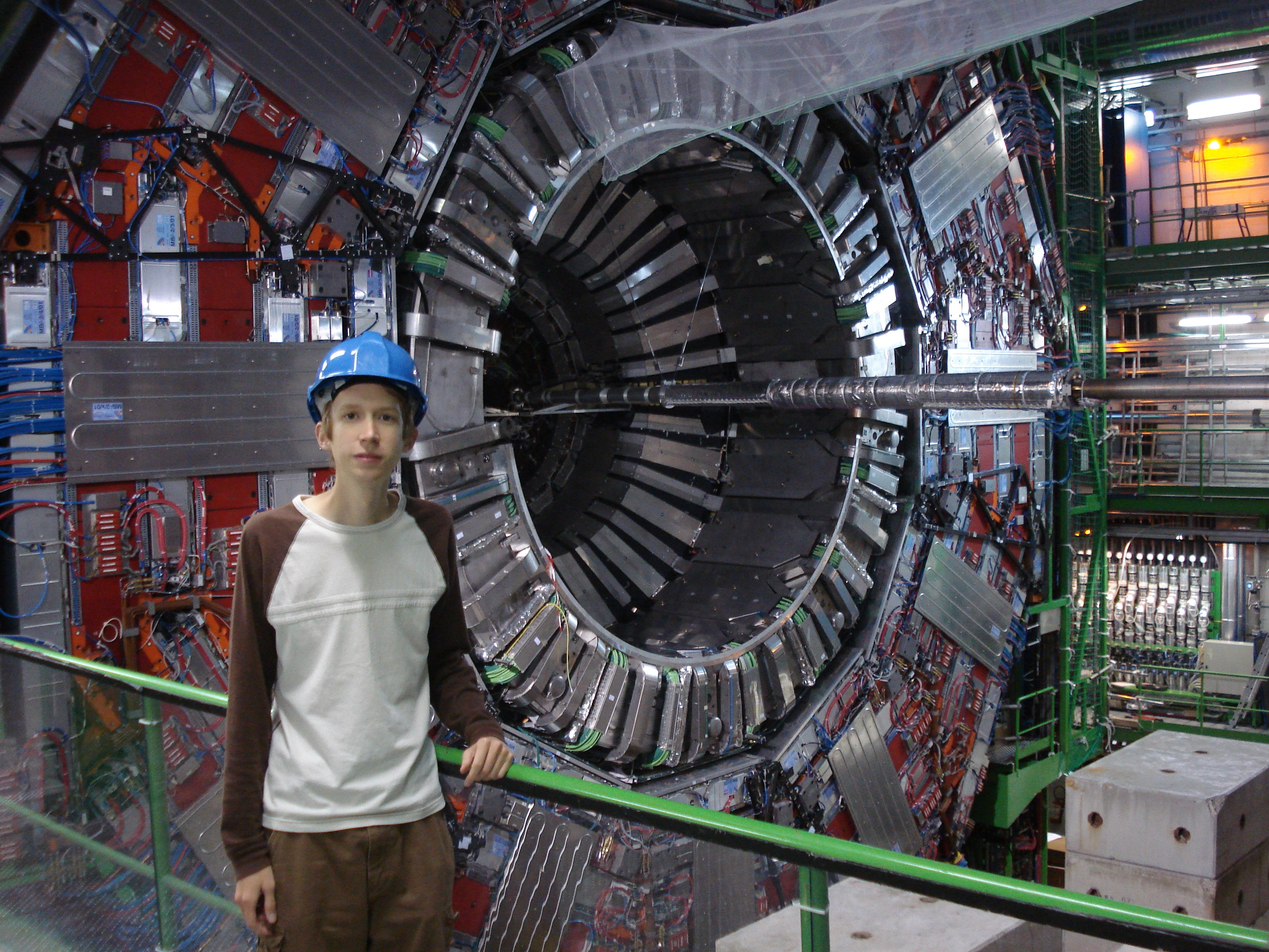
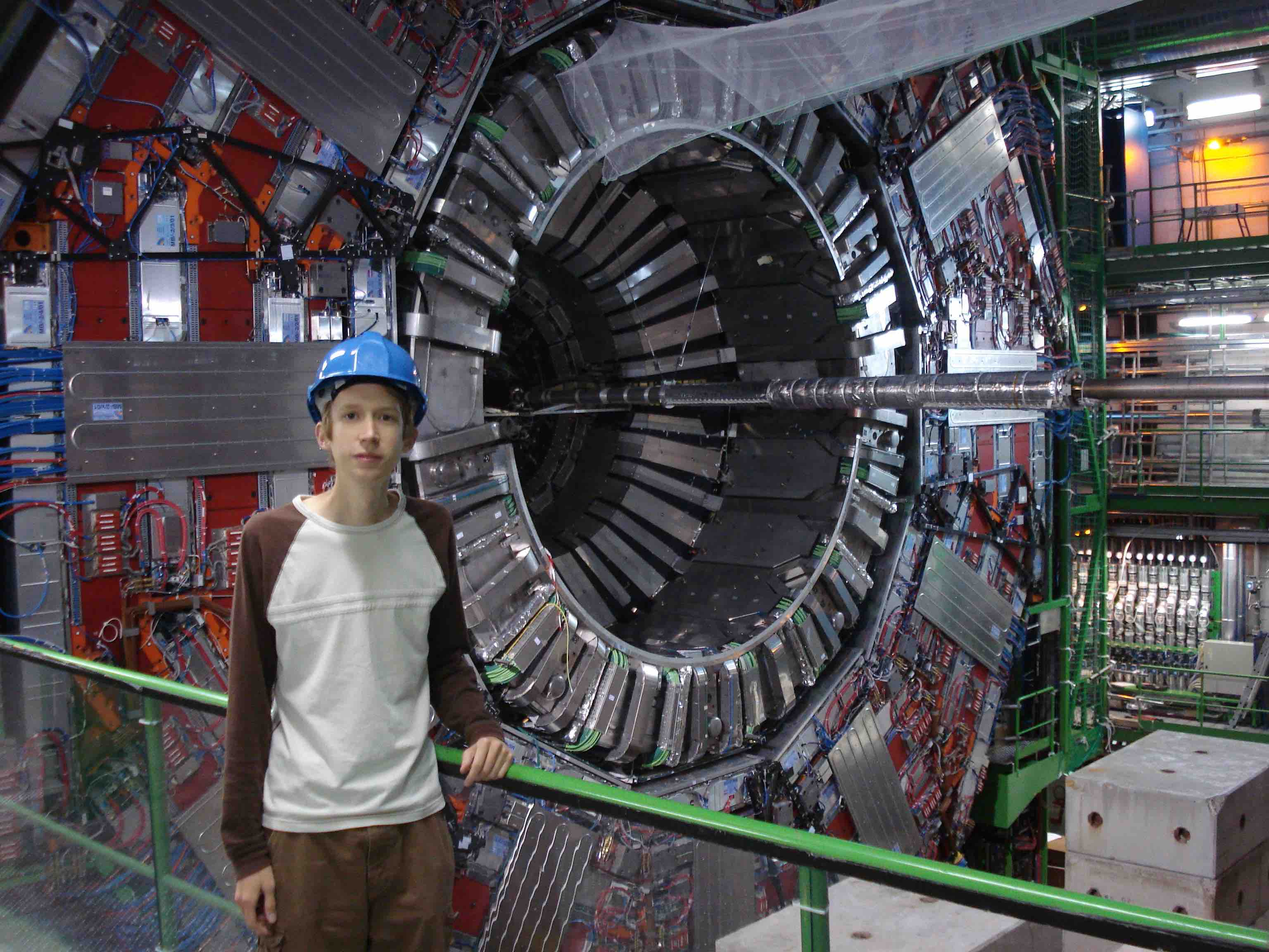
Added blog page. Compressed figures for faster load time.

Changed region(s): [[0.7188, 0.3125, 0.75, 0.3438]]

diff --git a/research.html b/research.html
@@ -10,7 +10,7 @@
 </head>
 <body>
 <div class="container">
-<p><a href="index.html">Home</a> / <strong>Research</strong> / <a href="cvitae.html">Curriculum Vitae</a> / <a href="publications.html">Publications</a></p>
+<p><a href="index.html">Home</a> / <strong>Research</strong> / <a href="cvitae.html">Curriculum Vitae</a> / <a href="publications.html">Publications</a> / <a href="blog.html">Blog</a></p>
 <hr />
 <h2 id="research">Research</h2>
 <p>This page has background information on the research areas in which I work. I’ve also given a brief description of my own work on each topic, and cross-referenced my papers at the bottom of each section.</p>
@@ -26,7 +26,7 @@
 <a href="http://arxiv.org/abs/1405.4285">Galaxy cluster lensing</a><br />
 <a href="http://arxiv.org/abs/1507.05552">Cosmological lensing</a></p>
 <h3 id="cosmic-voids">Cosmic Voids</h3>
-<p><img style="float:right" width=320 src="images/void_diagram.pdf" /></p>
+<p><img style="float:right" width=320 src="images/void_diagram.jpg" /></p>
 <p>Galaxy clusters are the most massive objects in the universe, with a typical one weighing 100 times more than our own galaxy, the Milky Way. The typical radii of such clusters are easily five times larger than the Milky Way’s, but even these giants are dwarfed by cosmic voids. A single void is big enough that hundreds of galaxy clusters could fit inside – but then it wouldn’t be called a void.</p>
 <p>Voids have expelled most of their gas and other matter, feeding the network of galaxies and filaments at their edges. While voids take up most of the space of the known universe, they are by nature very dark and difficult to study. Gravitational lensing of distant background galaxies provides a way around this difficulty, since it doesn’t rely on finding galaxies within the voids themselves. In contrast to galaxy lensing (pictured in the previous section), void lensing imprints a pincushion pattern on background galaxies. I wrote a void finding algorithm and then measured this pincushion pattern around about 10,000 voids in the <a href="http://www.sdss.org">Sloan Digital Sky Survey</a> (SDSS). The resulting void map is shown in the above diagram for a single patch on the sky: by definition the voids (green circles) extend to the edges of the galaxies (black points). My lensing measurement of these voids provided the first direct constraints on void shapes (pictured below): they are flat and empty at the center with a sharp rise back to the universe’s average mass density at the void edge.</p>
 <p><img style="float:right" width=350 src="images/3d_density.pdf" /></p>
@@ -43,7 +43,7 @@ Einstein’s theory of General Relativity (GR) has passed numerous empirical tes
 <a href="http://arxiv.org/abs/1408.5338">Void abundance in MG II</a><br />
 </p>
 <h3 id="dark-energy-survey-telescope">Dark Energy Survey Telescope</h3>
-<p><img width=300 style="float:right" src="images/jarvis_des_map.pdf" /></p>
+<p><img width=300 style="float:right" src="images/jarvis_des_map.jpg" /></p>
 <p>For the measurements above I mostly relied on archival <a href="http://www.sdss.org">Sloan Digital Sky Survey</a> (SDSS) data, taken from 2000 – 2008 at Apache Point Observatory in New Mexico. That data set is enormous, comprising tens of millions of galaxies, but the ongoing <a href="http://www.darkenergysurvey.org">Dark Energy Survey</a> (DES) at Cerro Tololo Inter-American Observatory in Chile will surpass it. DES is a five year survey that will cover a quarter of the southern sky to great depth, allowing measurements of much more distant galaxies than SDSS.</p>
 <p>More distant galaxies are affected more strongly by gravitational lensing. This means the lensing measurements I carried out with SDSS can be improved with the new DES data – leading to a better understanding of galaxies, voids, filaments, and gravity. Since 2012 I’ve been involved with detailed testing of DES simulations and Science Verification (SV) data. A map of the SV data set (from Jarvis et al. 2015) is shown above. Since 2013 I’ve coordinated the DES “galaxy-galaxy lensing” analysis team, which carries out gravitational lensing tests and measurements like those described in the Gravitational Lensing section above. In 2014 the DES collaboration produced our first science results, and since then new papers have been released at a rapid pace. Here are some that I was involved in:<br />
 <a href="http://arxiv.org/abs/1405.4285">Galaxy cluster lensing</a><br />

diff --git a/index.html b/index.html
@@ -10,7 +10,7 @@
 </head>
 <body>
 <div class="container">
-<p><strong>Home</strong> / <a href="research.html">Research</a> / <a href="cvitae.html">Curriculum Vitae</a> / <a href="publications.html">Publications</a></p>
+<p><strong>Home</strong> / <a href="research.html">Research</a> / <a href="cvitae.html">Curriculum Vitae</a> / <a href="publications.html">Publications</a> / <a href="blog.html">Blog</a></p>
 <hr />
 <div class="row">
 <div class="six columns">
@@ -29,13 +29,14 @@ document.write('<a h'+'ref'+'="ma'+'ilto'+':'+e+'" clas'+'s="em' + 'ail">'+e+'<\
 </center>
 </div>
 <div class="six columns">
-<img width=220 src="images/joseph2.jpg"/>
+<img width=190 src="images/joseph2.jpg"/>
 </div>
 </div>
-<p>I am a postdoctoral researcher in Cosmology and Astrophysics working with Prof. Bhuvnesh Jain at the University of Pennsylvania in Philadelphia. My research focuses on statistical measurements of galaxy, void, and filament properties using gravitational lensing, with both Sloan Digital Sky Survey (SDSS) and Dark Energy Survey (DES) data. I’ve also written my own void finding algorithm and measured void abundances and clustering in SDSS and DES. In addition to data analysis, I work on phenomenology of gravity theories, and have proposed several tests to distinguish between General Relativity and alternative models. I describe my research in plain English <a href="research.html">here</a>.</p>
-<p>In addition, this article in <a href="http://nautil.us">Nautilus</a> featured my work on weak lensing of cosmic voids:<br />
-<a href="http://nautil.us/issue/16/nothingness/whats-250-million-light_years-big-almost-empty-and-full-of-answers">What’s 250 Million Light-Years Big, Almost Empty, and Full of Answers?</a></p>
-<p>This article describes my lensing measurements of voids and filaments:<br />
+<p>I am a postdoctoral researcher in Cosmology and Astrophysics working with Prof. Bhuvnesh Jain at the University of Pennsylvania. My research focuses on statistical measurements of galaxy, void, and filament properties using gravitational lensing, with both Sloan Digital Sky Survey (SDSS) and Dark Energy Survey (DES) data. I’ve also written my own void finding algorithm and measured void abundances and clustering in SDSS and DES. In addition to lensing data analysis, I have proposed several tests to distinguish between General Relativity and alternative gravity models. I describe my research in plain English <a href="research.html">here</a>.</p>
+<p>I recently started a blog with research tips for science PhD students, <a href="http://sciencephdguide.com/phd-guide/">sciencephdguide.com</a></p>
+<p>This article in <a href="http://nautil.us">Nautilus</a> featured my work on weak lensing of cosmic voids:<br />
+<a href="http://nautil.us/issue/16/nothingness/whats-250-million-light_years-big-almost-empty-and-full-of-answers">What’s 250 Million Light-Years Big, Almost Empty, and Full of Answers?</a><br />
+and this article describes my lensing measurements of voids and filaments:<br />
 <a href="http://www.upenn.edu/pennnews/news/cosmologists-penn-weigh-cosmic-filaments-and-voids">Cosmologists Weigh Cosmic Filaments and Voids</a></p>
 </div>
 </body>

diff --git a/blog.html b/blog.html
@@ -1,0 +1,20 @@
+<!DOCTYPE html PUBLIC "-//W3C//DTD XHTML 1.0 Transitional//EN" "http://www.w3.org/TR/xhtml1/DTD/xhtml1-transitional.dtd">
+<html xmlns="http://www.w3.org/1999/xhtml">
+<head>
+  <meta http-equiv="Content-Type" content="text/html; charset=utf-8" />
+  <meta http-equiv="Content-Style-Type" content="text/css" />
+  <meta name="generator" content="pandoc" />
+  <title></title>
+  <style type="text/css">code{white-space: pre;}</style>
+  <link rel="stylesheet" href="css/skeleton_jc.css" type="text/css" />
+</head>
+<body>
+<div class="container">
+<p><a href="index.html">Home</a> / <a href="research.html">Research</a> / <a href="cvitae.html">Curriculum Vitae</a> / <a href="publications.html">Publications</a> / <strong>Blog</strong></p>
+<hr />
+<h2 id="science-phd-guide">Science PhD Guide</h2>
+<p>I recently started a blog with research tips for science PhD students, <a href="http://sciencephdguide.com/phd-guide/">sciencephdguide.com</a>. On this site I describe some of the research skills that were most helpful during my own PhD. These are grouped into a few categories covering the usually untaught skills of <a href="http://sciencephdguide.com/category/find-projects/">finding good research projects</a>, <a href="http://sciencephdguide.com/category/invest-time/">investing time</a> rather than squandering it, and sharing your research results through <a href="http://sciencephdguide.com/category/write-and-speak/">writing and speaking</a>. Finally, articles listed under <a href="http://sciencephdguide.com/category/inspiration/">inspiration</a> aim to provide encouragement during the inevitable challenging phases of PhD research.</p>
+<p><a href="http://sciencephdguide.com/phd-guide/"><img width=580 src="images/phdguide_screenshot.jpg"/></a></p>
+</div>
+</body>
+</html>

diff --git a/cvitae.html b/cvitae.html
@@ -10,7 +10,7 @@
 </head>
 <body>
 <div class="container">
-<p><a href="index.html">Home</a> / <a href="research.html">Research</a> / <strong>Curriculum Vitae</strong> / <a href="publications.html">Publications</a></p>
+<p><a href="index.html">Home</a> / <a href="research.html">Research</a> / <strong>Curriculum Vitae</strong> / <a href="publications.html">Publications</a> / <a href="blog.html">Blog</a></p>
 <hr />
 <h2 id="curriculum-vitae">Curriculum Vitae</h2>
 <p>CV as <a href="cvClampitt.pdf">pdf</a></p>
@@ -142,7 +142,7 @@ Indiana University<br />
 <h3 id="service-and-awards">Service and Awards</h3>
 <dl>
 <dt>2015 – present</dt>
-<dd>Refereed for journals ApJ, MNRAS, and JCAP
+<dd>Referee for journals ApJ, MNRAS, and JCAP
 </dd>
 <dt>2013 – 2016</dt>
 <dd>Coordinated Dark Energy Survey galaxy-galaxy lensing subgroup

diff --git a/publications.html b/publications.html
@@ -10,7 +10,7 @@
 </head>
 <body>
 <div class="container">
-<p><a href="index.html">Home</a> / <a href="research.html">Research</a> / <a href="cvitae.html">Curriculum Vitae</a> / <strong>Publications</strong></p>
+<p><a href="index.html">Home</a> / <a href="research.html">Research</a> / <a href="cvitae.html">Curriculum Vitae</a> / <strong>Publications</strong> / <a href="blog.html">Blog</a></p>
 <hr />
 <h2 id="publications">Publications</h2>
 <p><a href="http://arxiv.org/find/astro-ph/1/au:+Clampitt_J/0/1/0/all/0/1">All publications</a></p>

diff --git a/index.md b/index.md
@@ -3,7 +3,8 @@
 **Home** /
 [Research](research.html) /
 [Curriculum Vitae](cvitae.html) /
-[Publications](publications.html)
+[Publications](publications.html) /
+[Blog](blog.html)
 
 ***
 
@@ -27,20 +28,21 @@
   </div>
   
   <div class="six columns">
-  <img width=220 src="images/joseph2.jpg"/>
+  <img width=190 src="images/joseph2.jpg"/>
   </div>
 </div>
 
-I am a postdoctoral researcher in Cosmology and Astrophysics working with Prof. Bhuvnesh Jain at the University of Pennsylvania in Philadelphia.
+I am a postdoctoral researcher in Cosmology and Astrophysics working with Prof. Bhuvnesh Jain at the University of Pennsylvania.
 My research focuses on statistical measurements of galaxy, void, and filament properties using gravitational lensing, with both Sloan Digital Sky Survey (SDSS) and Dark Energy Survey (DES) data.
 I've also written my own void finding algorithm and measured void abundances and clustering in SDSS and DES.
-In addition to data analysis, I work on phenomenology of gravity theories, and have proposed several tests to distinguish between General Relativity and alternative models.
+In addition to lensing data analysis, I have proposed several tests to distinguish between General Relativity and alternative gravity models.
 I describe my research in plain English [here](research.html).
 
-In addition, this article in [Nautilus](http://nautil.us) featured my work on weak lensing of cosmic voids:\
-[What's 250 Million Light-Years Big, Almost Empty, and Full of Answers?](http://nautil.us/issue/16/nothingness/whats-250-million-light_years-big-almost-empty-and-full-of-answers)
+I recently started a blog with research tips for science PhD students, [sciencephdguide.com](http://sciencephdguide.com/phd-guide/)
 
-This article describes my lensing measurements of voids and filaments:\
+This article in [Nautilus](http://nautil.us) featured my work on weak lensing of cosmic voids:\
+[What's 250 Million Light-Years Big, Almost Empty, and Full of Answers?](http://nautil.us/issue/16/nothingness/whats-250-million-light_years-big-almost-empty-and-full-of-answers)  
+and this article describes my lensing measurements of voids and filaments:\
 [Cosmologists Weigh Cosmic Filaments and Voids](http://www.upenn.edu/pennnews/news/cosmologists-penn-weigh-cosmic-filaments-and-voids)
 
 </div>

diff --git a/research.md b/research.md
@@ -3,7 +3,8 @@
 [Home](index.html) /
 **Research** / 
 [Curriculum Vitae](cvitae.html) / 
-[Publications](publications.html)
+[Publications](publications.html) /
+[Blog](blog.html)
 
 ***
 
@@ -44,7 +45,7 @@ In addition to measuring lens galaxy properties in this way, I've used variation
 
 ### Cosmic Voids
 
-<img style="float:right" width=320 src="images/void_diagram.pdf" />
+<img style="float:right" width=320 src="images/void_diagram.jpg" />
 
 Galaxy clusters are the most massive objects in the universe, with a typical one weighing 100 times more than our own galaxy, the Milky Way.
 The typical radii of such clusters are easily five times larger than the Milky Way's, but even these giants are dwarfed by cosmic voids.
@@ -100,7 +101,7 @@ Predictions for these tests are described in more detail in the following papers
 
 ### Dark Energy Survey Telescope
 
-<img width=300 style="float:right" src="images/jarvis_des_map.pdf" />
+<img width=300 style="float:right" src="images/jarvis_des_map.jpg" />
 
 For the measurements above I mostly relied on archival [Sloan Digital Sky Survey](http://www.sdss.org) (SDSS) data, taken from 2000 -- 2008 at Apache Point Observatory in New Mexico.
 That data set is enormous, comprising tens of millions of galaxies, but the ongoing [Dark Energy Survey](http://www.darkenergysurvey.org) (DES) at Cerro Tololo Inter-American Observatory in Chile will surpass it.

diff --git a/blog.md b/blog.md
@@ -1,0 +1,20 @@
+<div class="container">
+
+[Home](index.html) /
+[Research](research.html) /
+[Curriculum Vitae](cvitae.html) /
+[Publications](publications.html) /
+**Blog**
+
+***
+
+## Science PhD Guide
+
+I recently started a blog with research tips for science PhD students, [sciencephdguide.com](http://sciencephdguide.com/phd-guide/).
+On this site I describe some of the research skills that were most helpful during my own PhD.
+These are grouped into a few categories covering the usually untaught skills of [finding good research projects](http://sciencephdguide.com/category/find-projects/), [investing time](http://sciencephdguide.com/category/invest-time/) rather than squandering it, and sharing your research results through [writing and speaking](http://sciencephdguide.com/category/write-and-speak/).
+Finally, articles listed under [inspiration](http://sciencephdguide.com/category/inspiration/) aim to provide encouragement during the inevitable challenging phases of PhD research.
+
+[<img width=580 src="images/phdguide_screenshot.jpg"/>](http://sciencephdguide.com/phd-guide/)
+
+</div>

diff --git a/cvitae.md b/cvitae.md
@@ -3,7 +3,8 @@
 [Home](index.html) / 
 [Research](research.html) / 
 **Curriculum Vitae** /
-[Publications](publications.html)
+[Publications](publications.html) /
+[Blog](blog.html)
 
 ***
 
@@ -136,7 +137,7 @@ Mar 2007
 
 ### Service and Awards
 2015 -- present
-:    Refereed for journals ApJ, MNRAS, and JCAP
+:    Referee for journals ApJ, MNRAS, and JCAP
 
 2013 -- 2016
 :    Coordinated Dark Energy Survey galaxy-galaxy lensing subgroup

diff --git a/publications.md b/publications.md
@@ -3,7 +3,8 @@
 [Home](index.html) /
 [Research](research.html) /
 [Curriculum Vitae](cvitae.html) /
-**Publications**
+**Publications** /
+[Blog](blog.html)
 
 ***
 
